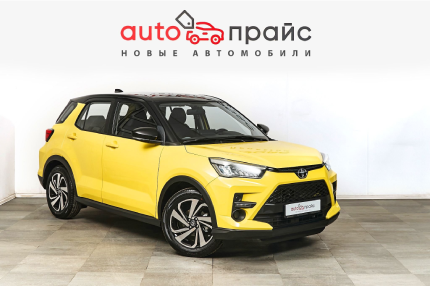
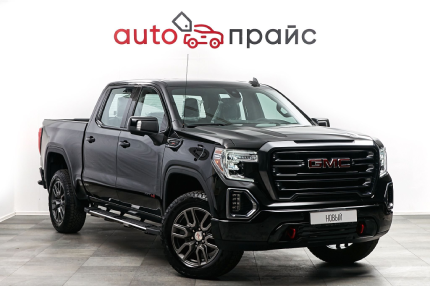
card the end

diff --git a/index.html b/index.html
@@ -57,10 +57,10 @@
             <div class="main_container">
                 <div class="card">
                     <div class="card_img">
-                        <div class="slider_btn_left">
+                        <div class="slider_btn_left_one">
                             <img class="slider_btn_left_img" src="./images/slider_btn2.svg" alt="">
                         </div>
-                        <div class="swiper mySwiper">
+                        <div class="swiper mySwiperOne">
                             <div class="swiper-wrapper">
                                 <div class="swiper-slide">
                                     <img src="./images/card_img1.png" alt="">
@@ -82,6 +82,76 @@
                                 </div>
                                 <div class="swiper-slide">
                                     <img src="./images/card_img1.png" alt="">
+                                </div>
+                            </div>
+                        </div>
+                        <div class="slider_btn_right_one">
+                            <img src="./images/slider_btn2.svg" alt="">
+                        </div>
+                    </div>
+
+                    <div class="card_text">
+                        <h2>Toyota Camry</h2>
+                        <h2>4 440 000 ₽</h2>
+                        <div class="card_list">
+                            <ul>
+                                <li>
+                                    <span>•</span>
+                                     Бензин
+                                </li>
+                                <li>
+                                    <span>•</span>
+                                    2,5
+                                </li>
+                                <li>
+                                    <span>•</span>
+                                    Автомат
+                                </li>
+                            </ul>
+                            <ul>
+                                <li>
+                                    <span>•</span>
+                                    Передний
+                                </li>
+                                <li class="circle_in">
+                                    <span>•</span>
+                                    Белый
+                                    <span class="circle"></span>
+                                </li>
+                            </ul>
+                        </div>
+                        <button class="btn_red">Заказать видеопрезентацию</button>
+                        <button class="btn_black">Оценить трейд-ин</button>
+                        <button class="btn_grey">Расчитать в кредит</button>
+                    </div>
+                </div>
+                <div class="card">
+                    <div class="card_img">
+                        <div class="slider_btn_left">
+                            <img class="slider_btn_left_img" src="./images/slider_btn2.svg" alt="">
+                        </div>
+                        <div class="swiper mySwiper">
+                            <div class="swiper-wrapper">
+                                <div class="swiper-slide">
+                                    <img src="./images/card_img2.png" alt="">
+                                </div>
+                                <div class="swiper-slide">
+                                    <img src="./images/card_img2.png" alt="">
+                                </div>
+                                <div class="swiper-slide">
+                                    <img src="./images/card_img2.png" alt="">
+                                </div>
+                                <div class="swiper-slide">
+                                    <img src="./images/card_img2.png" alt="">
+                                </div>
+                                <div class="swiper-slide">
+                                    <img src="./images/card_img2.png" alt="">
+                                </div>
+                                <div class="swiper-slide">
+                                    <img src="./images/card_img2.png" alt="">
+                                </div>
+                                <div class="swiper-slide">
+                                    <img src="./images/card_img2.png" alt="">
                                 </div>
                             </div>
                         </div>

diff --git a/css/style.scss b/css/style.scss
@@ -156,9 +156,19 @@ header {
 
     .card_wrapper {
 
+        .main_container {
+            display: flex;
+            justify-content: center;
+            gap: 40px;
+
+        }
+
         .card {
+            width: calc(100% /3 - 20px);
             padding: 14px;
+            border: 1px solid #D6D5D5FF;
             .card_img {
+                width: 100%;
                 position: relative;
                 display: flex;
                 align-items: center;
@@ -166,7 +176,9 @@ header {
                 margin-bottom: 24px;
 
                 .slider_btn_left, 
-                .slider_btn_right {
+                .slider_btn_right,
+                .slider_btn_left_one ,
+                .slider_btn_right_one {
                     display: flex;
                     align-items: center;
                     justify-content: center;
@@ -185,24 +197,46 @@ header {
                 .slider_btn_right {
                     left: auto;
                     right: 0;
+                    top: 45%;
+                    transform: rotate(180deg);
+                }
+
+                .slider_btn_right_one {
+                    left: auto;
+                    right: 0;
+                    top: 45%;
                     transform: rotate(180deg);
                 }
 
                 .mySwiper {
-                    background:red;
                     z-index: 1;
+
+                    img {
+                        width: 100%;
+                    }
+                    
+                }
+
+                .mySwiperOne {
+                    z-index: 1;
+
+                    img {
+                        width: 100%;
+                    }
                     
                 }
             }
             
             .card_text {
 
+                padding: 0 0 0 6px;
+
                 h2 {
                     font-size: 37px;
                     color: #000000;
                     font-weight: bold;
                     font-family: $Gilroy;
-                    margin-bottom: 23px;
+                    margin-bottom: 10px;
                 }
 
                 .card_list {
@@ -228,6 +262,7 @@ header {
                 }
 
                 button {
+                    margin-bottom: 8px;
                     white-space: nowrap;
                     width: 266px;  
                     padding: 18px;

diff --git a/css/style.css b/css/style.css
@@ -129,10 +129,18 @@ header .main_container .request_call {
   border: 1px solid #a81610;
   background-color: transparent;
 }
+#cards .card_wrapper .main_container {
+  display: flex;
+  justify-content: center;
+  gap: 40px;
+}
 #cards .card_wrapper .card {
+  width: calc(33.3333333333% - 20px);
   padding: 14px;
+  border: 1px solid #d6d5d5;
 }
 #cards .card_wrapper .card .card_img {
+  width: 100%;
   position: relative;
   display: flex;
   align-items: center;
@@ -140,7 +148,9 @@ header .main_container .request_call {
   margin-bottom: 24px;
 }
 #cards .card_wrapper .card .card_img .slider_btn_left,
-#cards .card_wrapper .card .card_img .slider_btn_right {
+#cards .card_wrapper .card .card_img .slider_btn_right,
+#cards .card_wrapper .card .card_img .slider_btn_left_one,
+#cards .card_wrapper .card .card_img .slider_btn_right_one {
   display: flex;
   align-items: center;
   justify-content: center;
@@ -158,18 +168,36 @@ header .main_container .request_call {
 #cards .card_wrapper .card .card_img .slider_btn_right {
   left: auto;
   right: 0;
+  top: 45%;
+  transform: rotate(180deg);
+}
+#cards .card_wrapper .card .card_img .slider_btn_right_one {
+  left: auto;
+  right: 0;
+  top: 45%;
   transform: rotate(180deg);
 }
 #cards .card_wrapper .card .card_img .mySwiper {
-  background: red;
   z-index: 1;
+}
+#cards .card_wrapper .card .card_img .mySwiper img {
+  width: 100%;
+}
+#cards .card_wrapper .card .card_img .mySwiperOne {
+  z-index: 1;
+}
+#cards .card_wrapper .card .card_img .mySwiperOne img {
+  width: 100%;
+}
+#cards .card_wrapper .card .card_text {
+  padding: 0 0 0 6px;
 }
 #cards .card_wrapper .card .card_text h2 {
   font-size: 37px;
   color: #000000;
   font-weight: bold;
   font-family: "Gilroy", sans-serif;
-  margin-bottom: 23px;
+  margin-bottom: 10px;
 }
 #cards .card_wrapper .card .card_text .card_list {
   margin-bottom: 16px;
@@ -189,6 +217,7 @@ header .main_container .request_call {
   color: #a81610;
 }
 #cards .card_wrapper .card .card_text button {
+  margin-bottom: 8px;
   white-space: nowrap;
   width: 266px;
   padding: 18px;

diff --git a/js/main.js b/js/main.js
@@ -4,3 +4,10 @@ var swiper = new Swiper(".mySwiper", {
       prevEl: ".slider_btn_left",
     },
   });
+  
+var swiper = new Swiper(".mySwiperOne", {
+    navigation: {
+      nextEl: ".slider_btn_right_one",
+      prevEl: ".slider_btn_left_one",
+    },
+  });
